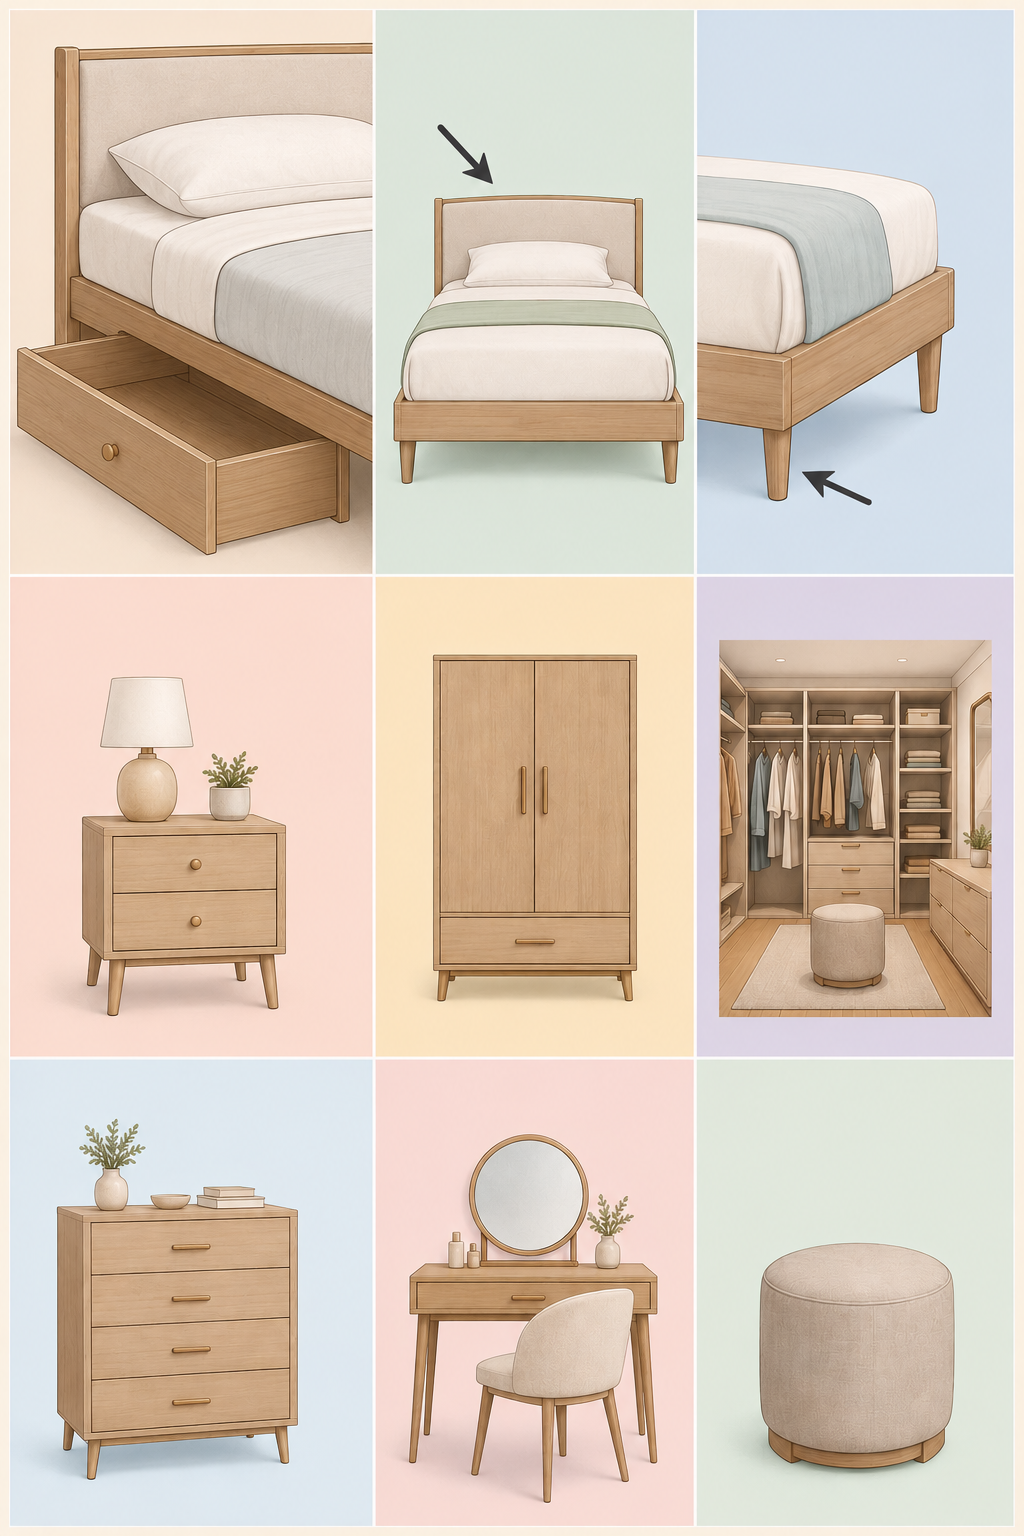
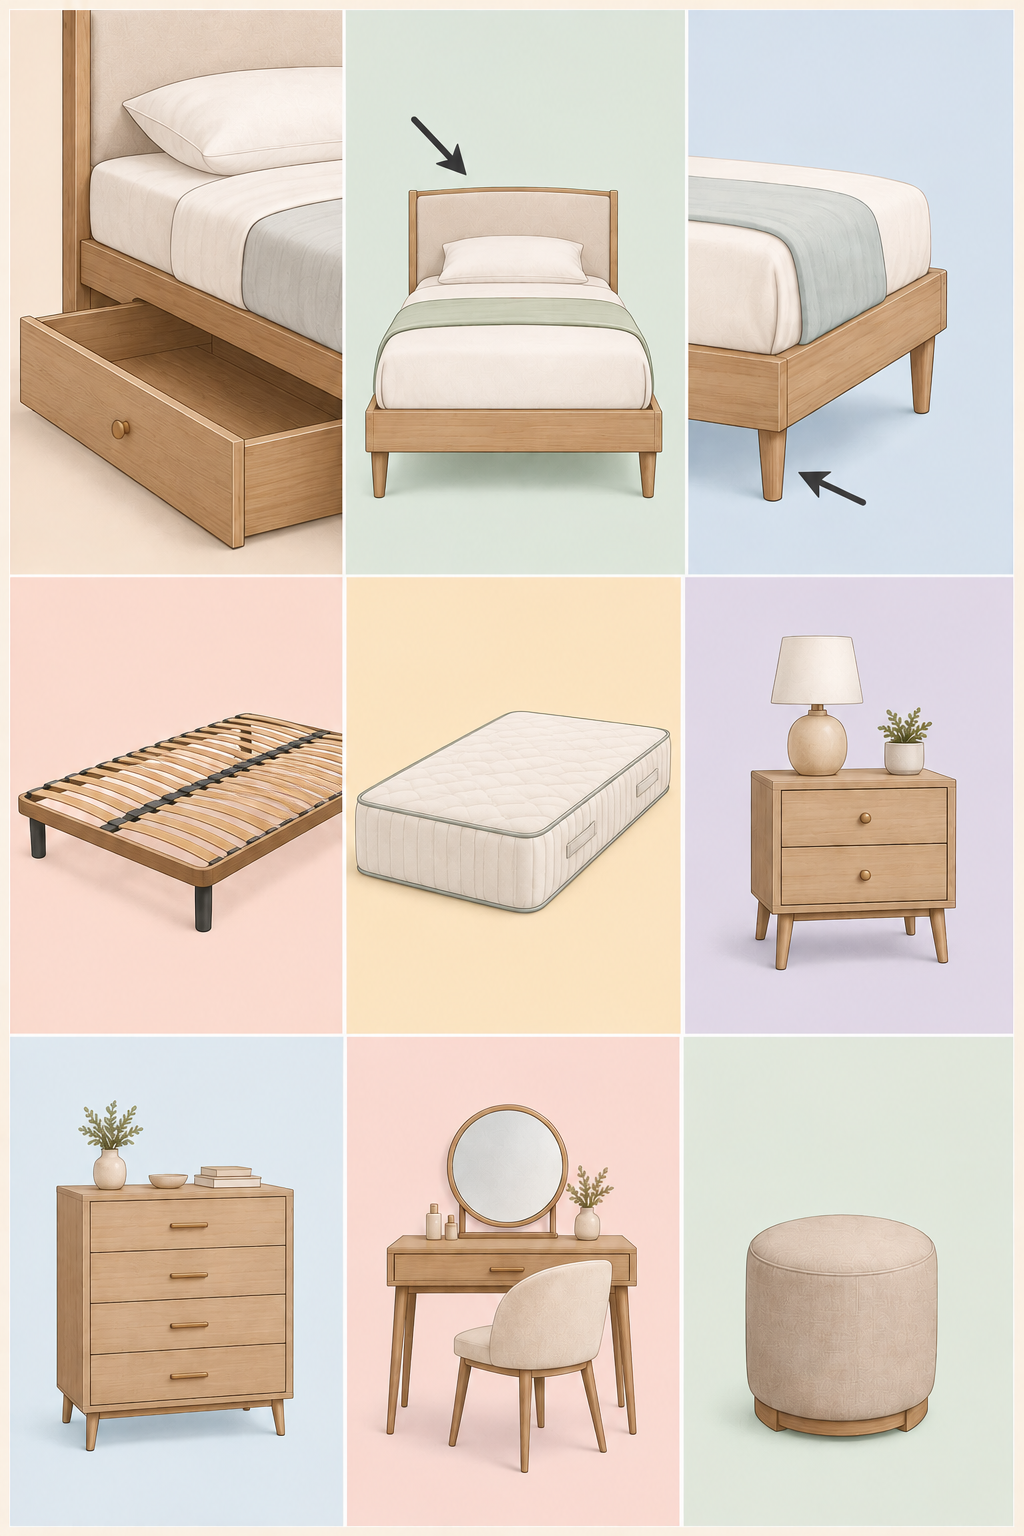
Aktualisiere dormitorio3 Begriffe

diff --git a/bilder-daten.js b/bilder-daten.js
@@ -908,8 +908,8 @@ window.APP_FOLDERS = {
           { wort: { es: "la cabecera", de: "das Kopfteil des Bettes", en: "the headboard", ru: "изголовье кровати" }, clickX: 49.9, clickY: 17.7, labelX: 50, labelY: 9.5, areaW: 31.4, areaH: 33.5 },
           { wort: { es: "las patas de la cama", de: "die Bettfüße", en: "the bed legs", ru: "ножки кровати" }, clickX: 82.2, clickY: 17.7, labelX: 76, labelY: 9.5, areaW: 32.6, areaH: 33.5 },
           { wort: { es: "la mesita de noche", de: "der Nachttisch", en: "the bedside table", ru: "прикроватная тумбочка" }, clickX: 17.6, clickY: 50.8, labelX: 24, labelY: 42, areaW: 32.4, areaH: 32.2 },
-          { wort: { es: "el armario", de: "der Kleiderschrank", en: "the wardrobe", ru: "платяной шкаф" }, clickX: 49.9, clickY: 50.8, labelX: 50, labelY: 42, areaW: 31.4, areaH: 32.2 },
-          { wort: { es: "el vestidor", de: "das Ankleidezimmer", en: "the walk-in wardrobe", ru: "гардеробная" }, clickX: 82.2, clickY: 50.8, labelX: 76, labelY: 42, areaW: 32.6, areaH: 32.2 },
+          { wort: { es: "el somier", de: "der Lattenrost", en: "the slatted bed base", ru: "реечное основание кровати" }, clickX: 49.9, clickY: 50.8, labelX: 50, labelY: 42, areaW: 31.4, areaH: 32.2 },
+          { wort: { es: "el colchón", de: "die Matratze", en: "the mattress", ru: "матрас" }, clickX: 82.2, clickY: 50.8, labelX: 76, labelY: 42, areaW: 32.6, areaH: 32.2 },
           { wort: { es: "la cómoda", de: "die Kommode", en: "the chest of drawers", ru: "комод" }, clickX: 17.6, clickY: 83.1, labelX: 24, labelY: 75, areaW: 32.4, areaH: 31.8 },
           { wort: { es: "el tocador", de: "der Schminktisch", en: "the dressing table", ru: "туалетный столик" }, clickX: 49.9, clickY: 83.1, labelX: 50, labelY: 75, areaW: 31.4, areaH: 31.8 },
           { wort: { es: "el puf", de: "der Hocker / Pouf", en: "the pouffe", ru: "пуф" }, clickX: 82.2, clickY: 83.1, labelX: 76, labelY: 75, areaW: 32.6, areaH: 31.8 }
